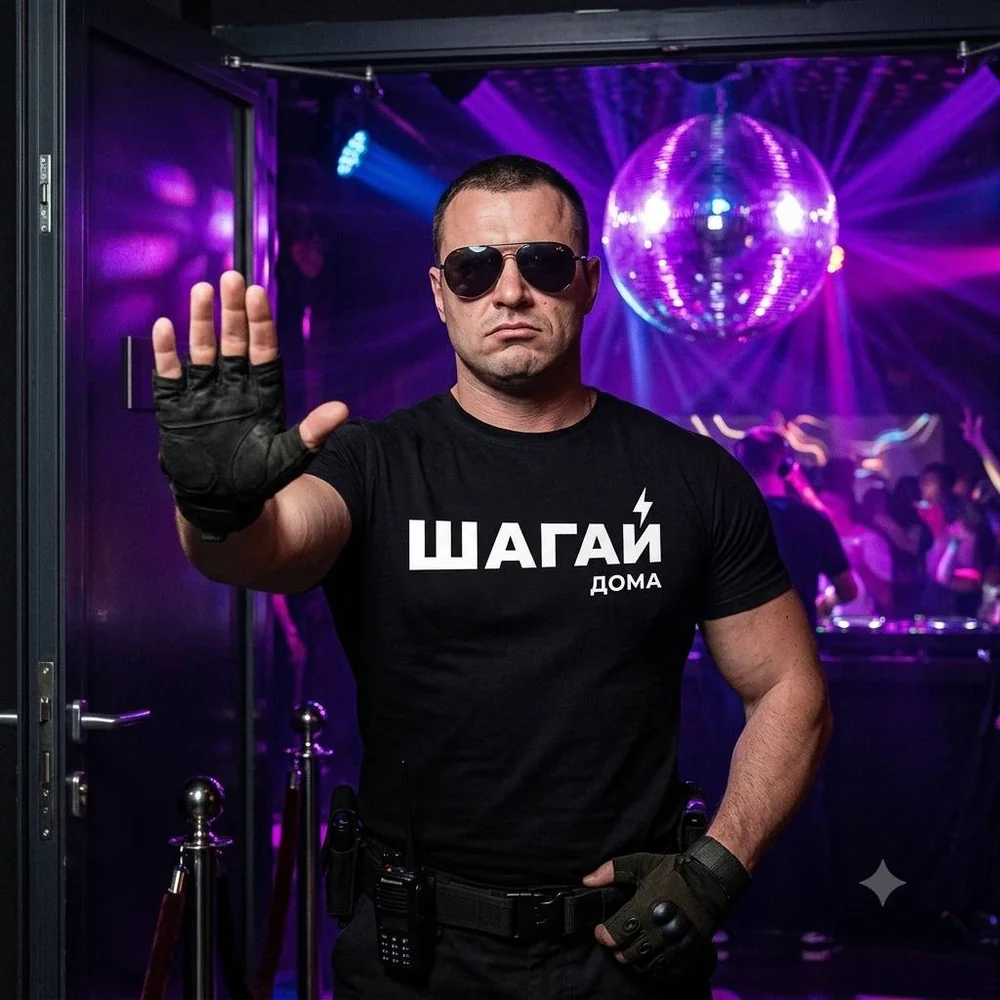
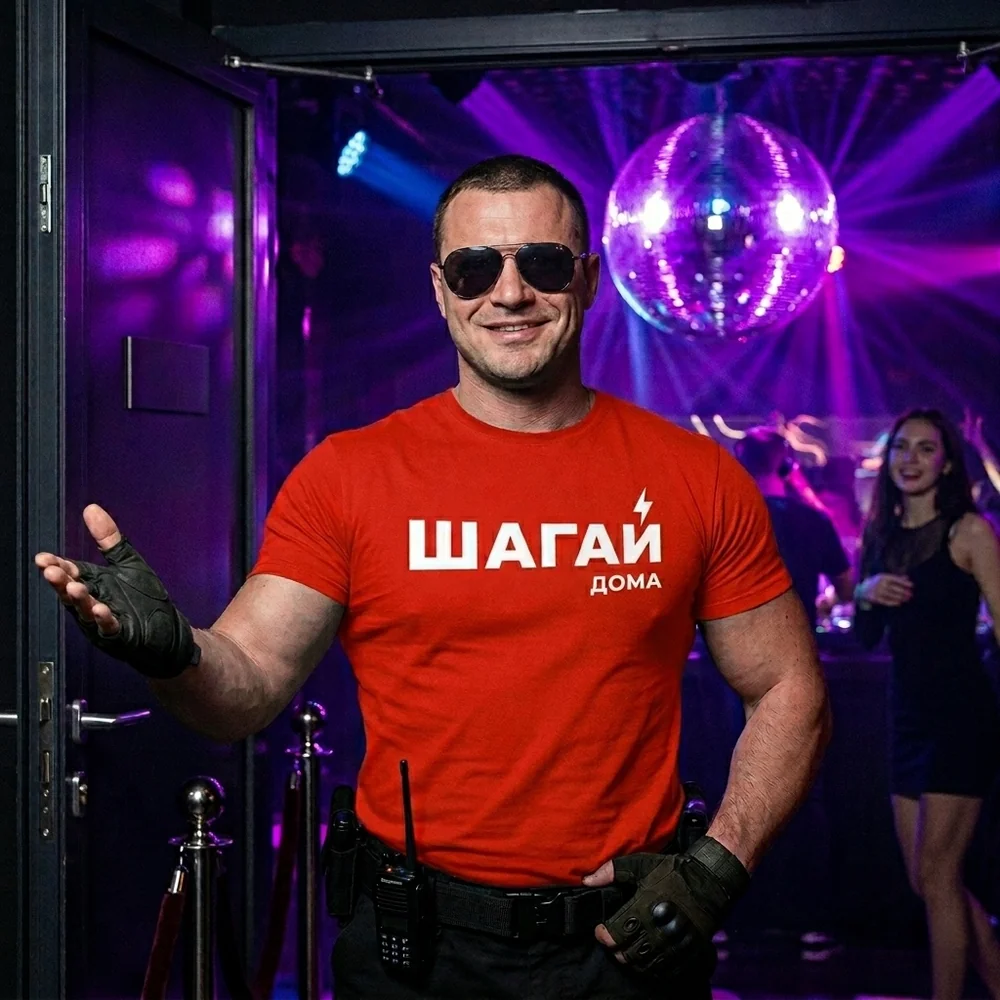
feat: финальная картинка охранника обновлена — приветливый «заходи, тут вечеринка»
- IMG_7263.jpg (1000×1000, WebP 85% — ~80 КБ)
- Открытая дверь, диско-шар, движуха с танцующими, улыбающийся охранник, рука с приглашающим жестом
- Заменяет старого охранника с запрещающим жестом (по правке копирайтера: «лучше побуждающую картинку, а не отталкивающую»)
- Cache-bust: disco-I → disco-J

diff --git a/index.html b/index.html
@@ -20,7 +20,7 @@
   <link rel="preconnect" href="https://fonts.gstatic.com" crossorigin />
   <link href="https://fonts.googleapis.com/css2?family=Unbounded:wght@500;600&family=Inter:wght@400;500;600&display=swap&subset=latin,cyrillic" rel="stylesheet" />
 
-  <link rel="stylesheet" href="styles.css?v=disco-I" />
+  <link rel="stylesheet" href="styles.css?v=disco-J" />
 </head>
 <body>
 
@@ -574,6 +574,6 @@
 <!-- Back to top -->
 <button class="back-to-top" id="backToTop" aria-label="Наверх">↑</button>
 
-<script src="script.js?v=disco-I"></script>
+<script src="script.js?v=disco-J"></script>
 </body>
 </html>
